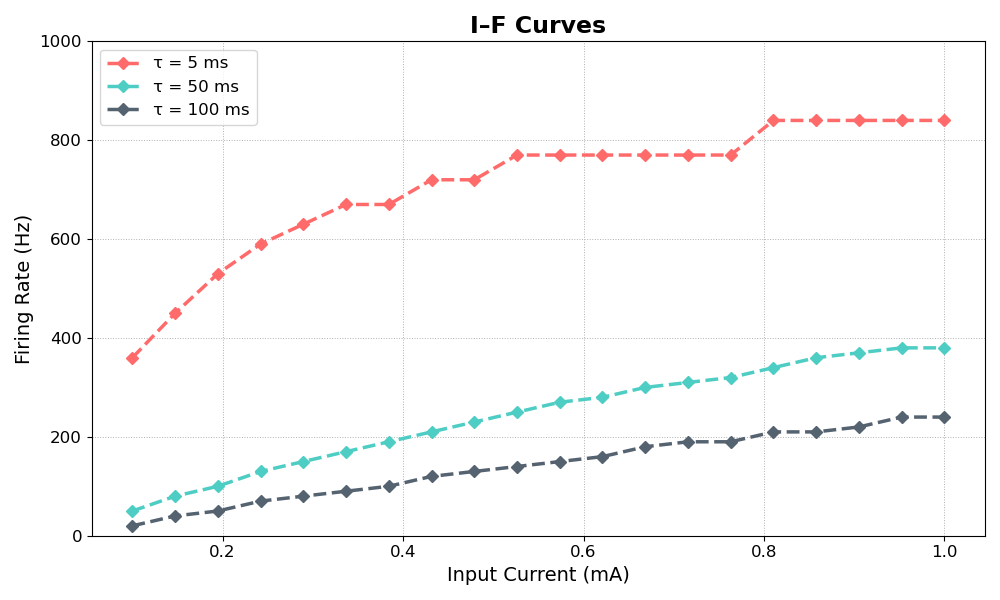
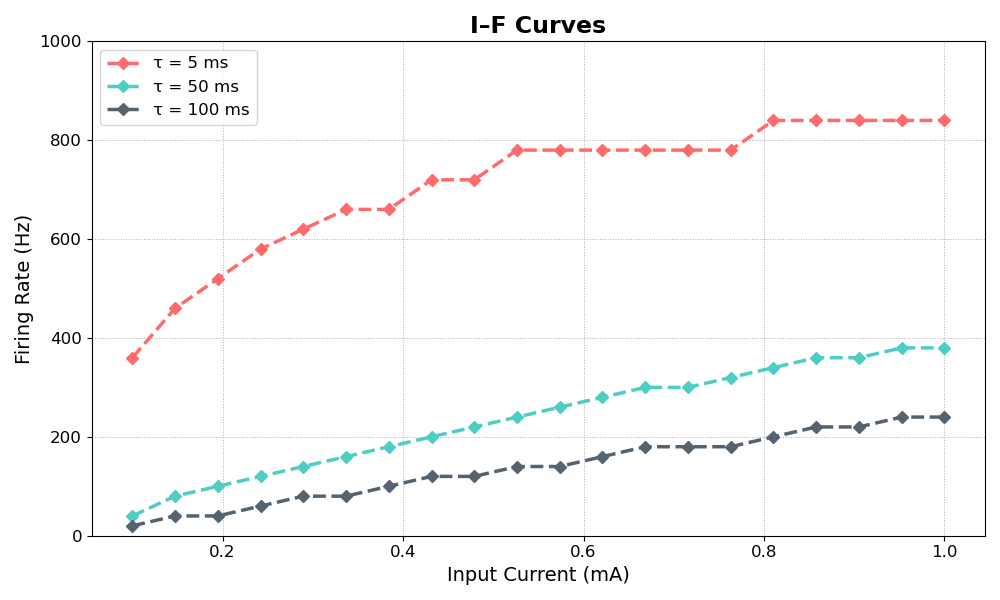
fix I-F curve

diff --git a/I-F Curve.py b/I-F Curve.py
@@ -6,7 +6,7 @@ import matplotlib.pyplot as plt
 custom_colors = ['#FF6B6B', '#4ECDC4', '#556270']  # Custom color palette
 
 # Constants
-T = 100     # Simulation time [mSec]
+T = 50     # Simulation time [mSec]
 dt = 0.1    # Time interval [mSec]
 vRest = -70 # Resting potential [mV]
 Rm = 1      # Membrane Resistance [kOhm]
